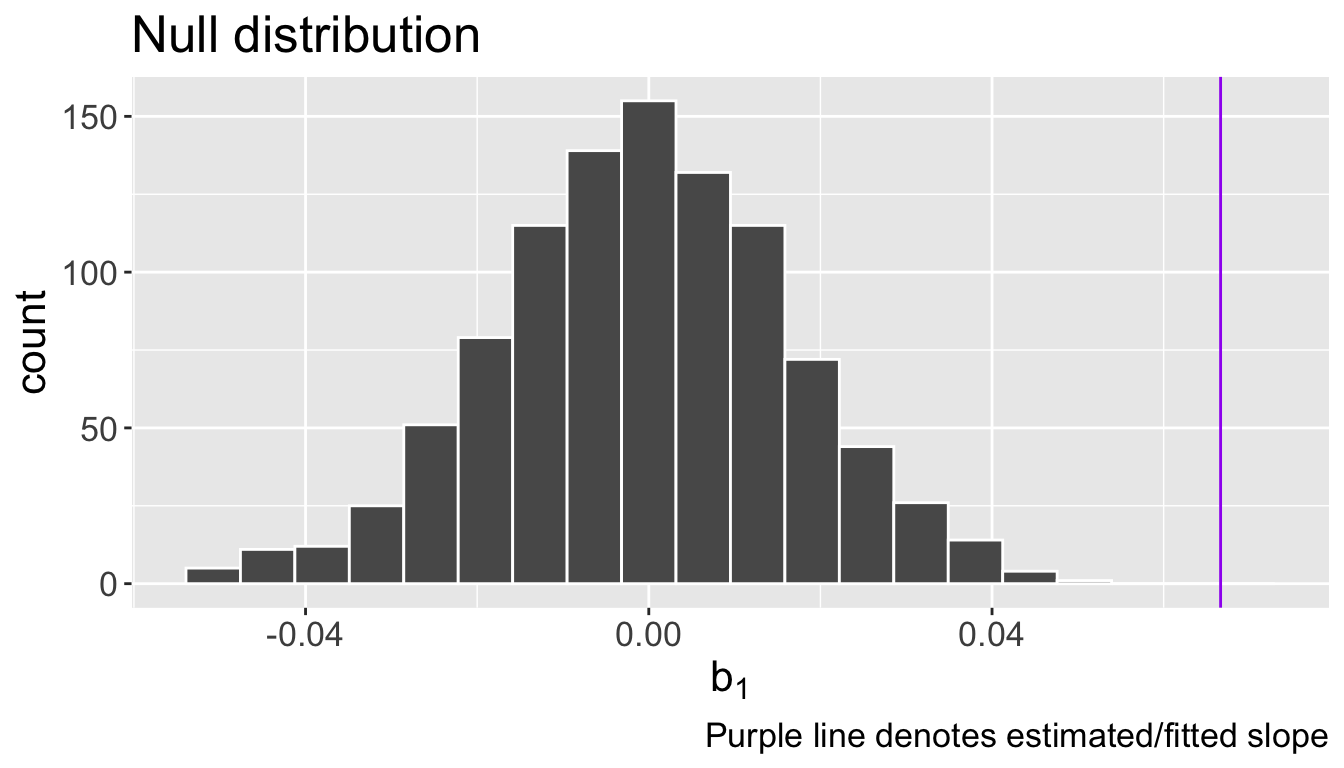
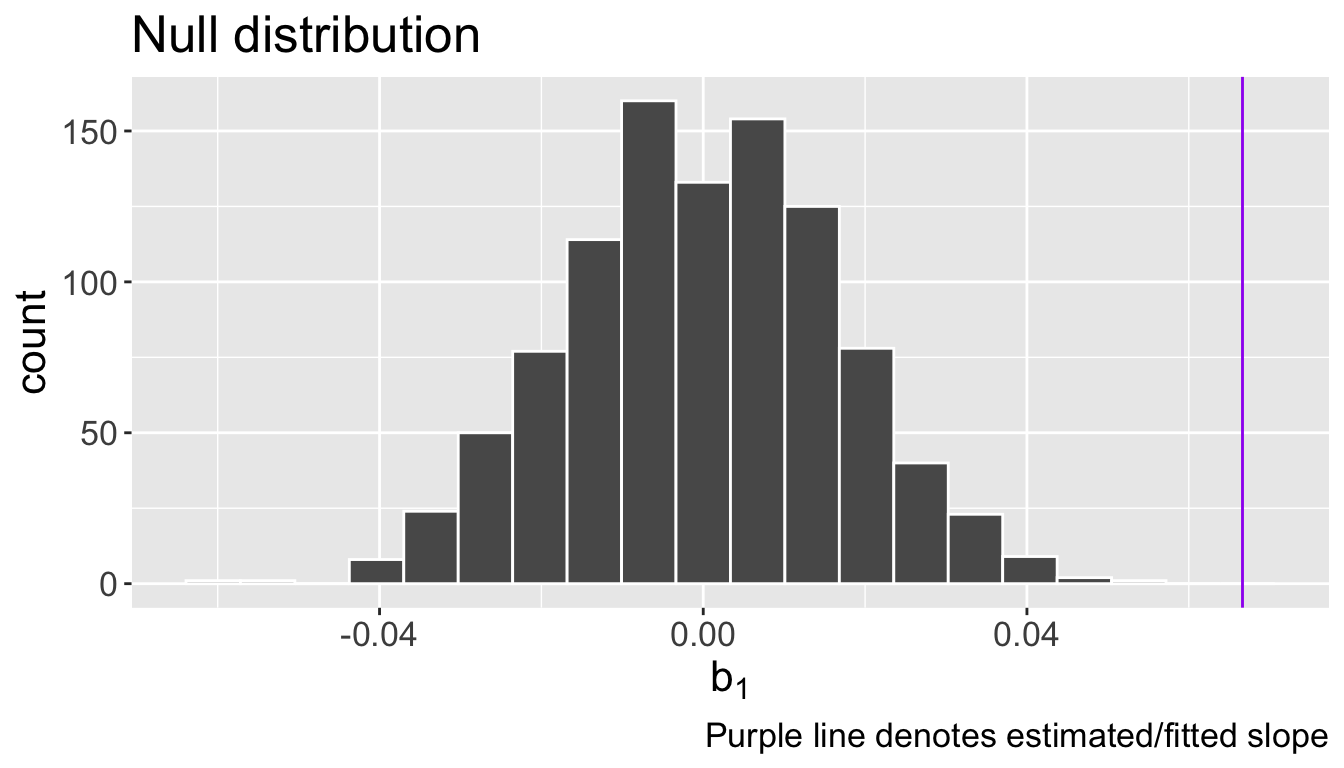
fix typo!

diff --git a/docs/live_code/slr-ht-randomization.html b/docs/live_code/slr-ht-randomization.html
@@ -210,7 +210,7 @@ code span.wa { color: #60a0b0; font-weight: bold; font-style: italic; } /* Warni
 <span id="cb2-3"><a href="#cb2-3" aria-hidden="true" tabindex="-1"></a>b1_null <span class="ot">&lt;-</span> <span class="fu">rep</span>(<span class="cn">NA</span>, B)</span>
 <span id="cb2-4"><a href="#cb2-4" aria-hidden="true" tabindex="-1"></a><span class="cf">for</span>(b <span class="cf">in</span> <span class="dv">1</span><span class="sc">:</span>B){</span>
 <span id="cb2-5"><a href="#cb2-5" aria-hidden="true" tabindex="-1"></a>  evals_null <span class="ot">&lt;-</span> evals <span class="sc">|&gt;</span></span>
-<span id="cb2-6"><a href="#cb2-6" aria-hidden="true" tabindex="-1"></a>    <span class="fu">mutate</span>(<span class="at">score_shuffle =</span> <span class="fu">sample</span>(score, <span class="at">replace =</span> T))</span>
+<span id="cb2-6"><a href="#cb2-6" aria-hidden="true" tabindex="-1"></a>    <span class="fu">mutate</span>(<span class="at">score_shuffle =</span> <span class="fu">sample</span>(score, <span class="at">replace =</span> F))</span>
 <span id="cb2-7"><a href="#cb2-7" aria-hidden="true" tabindex="-1"></a>  null_lm <span class="ot">&lt;-</span> <span class="fu">lm</span>(score_shuffle <span class="sc">~</span> bty_avg, <span class="at">data =</span> evals_null)</span>
 <span id="cb2-8"><a href="#cb2-8" aria-hidden="true" tabindex="-1"></a>  b1_null[b] <span class="ot">&lt;-</span> <span class="fu">coef</span>(null_lm)[<span class="dv">2</span>]</span>
 <span id="cb2-9"><a href="#cb2-9" aria-hidden="true" tabindex="-1"></a>}</span></code><button title="Copy to Clipboard" class="code-copy-button"><i class="bi"></i></button></pre></div>
